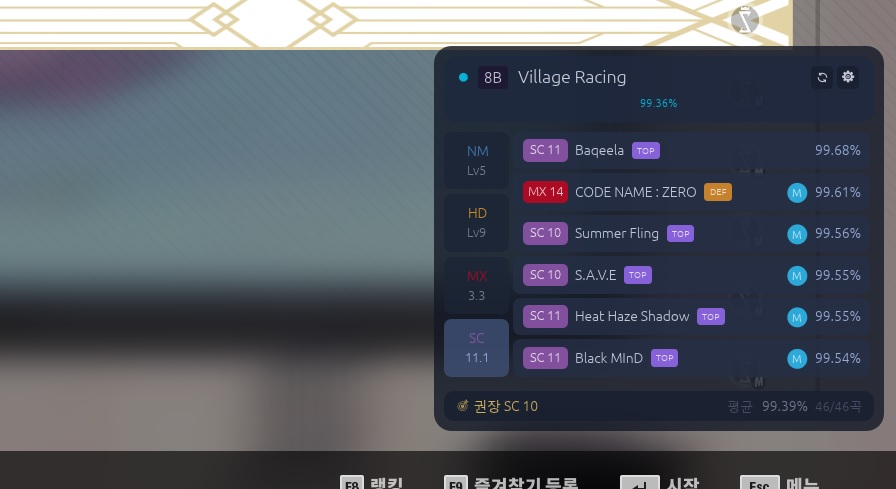
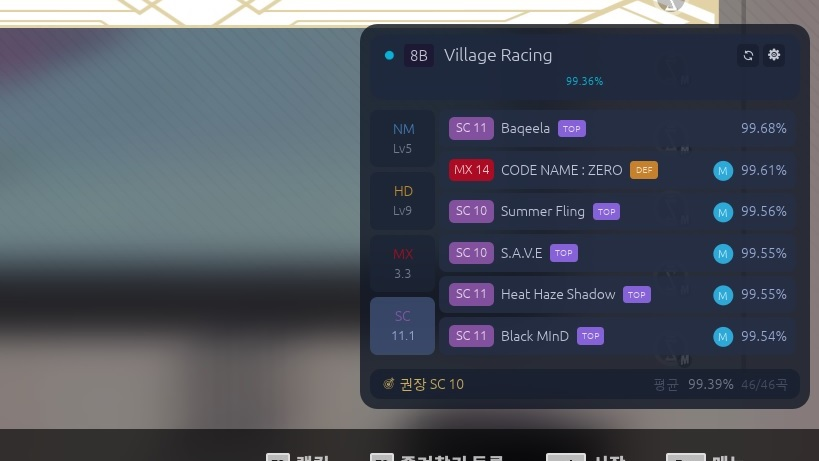
style: Align recommendation badge width (44px) and indent description text vertically

Changed region(s): [[0.0, 0.0, 1.0, 0.9414], [0.3053, 0.9718, 0.9158, 1.0]]

diff --git a/overmax/guide.html b/overmax/guide.html
@@ -133,18 +133,48 @@
       </p>
 
       <div style="background: var(--bg-card); border: 1px solid var(--border-subtle); border-radius: var(--radius-md); padding: 16px; margin: 14px 0 20px;">
-        <div style="font-weight: 700; color: var(--text); margin-bottom: 10px; font-size: 0.95rem;">
+        <div style="font-weight: 700; color: var(--text); margin-bottom: 12px; font-size: 0.95rem;">
           🏷 추천 사유 뱃지 안내
         </div>
-        <ul style="list-style: none; padding-left: 0; margin-bottom: 0; display: flex; flex-direction: column; gap: 8px; font-size: 0.9rem;">
-          <li><span class="badge-reco badge-reco-top">TOP</span> <strong>Top-50 돌파</strong>: V-Archive Top 50 랭킹 컷라인 돌파가 가능한 유력 후보곡 (레이팅 상승 극대화)</li>
-          <li><span class="badge-reco badge-reco-def">DEF</span> <strong>Top-50 수성</strong>: 현재 내 41~50위에 위치하여 밀려날 위기에 있는 방어 대상 곡</li>
-          <li><span class="badge-reco badge-reco-up">UP</span> <strong>상승 모멘텀</strong>: 오늘 세션의 컨디션(Performance Rating)이 좋아 도전해 볼 만한 상위 난이도 곡</li>
-          <li><span class="badge-reco badge-reco-rest">REST</span> <strong>회복/안정화</strong>: 컨디션이 저조하거나 손풀기가 필요할 때 감각 유지를 위한 안정권 곡</li>
-          <li><span class="badge-reco badge-reco-try">TRY</span> <strong>재도전</strong>: 목표 정확도에 근접했으나 아쉽게 놓치고 최근 14일간 플레이하지 않아 방치된 기록 갱신 유력 곡</li>
-          <li><span class="badge-reco badge-reco-clr">CLR</span> <strong>미플레이 첫 클리어</strong>: 아직 한 번도 기록이 등록되지 않은 신규 패턴</li>
+        <ul class="badge-reco-list">
+          <li class="badge-reco-item">
+            <span class="badge-reco badge-reco-top">TOP</span>
+            <div class="badge-reco-desc">
+              <strong>Top-50 돌파</strong>: V-Archive Top 50 랭킹 컷라인 돌파가 가능한 유력 후보곡 (레이팅 상승 극대화)
+            </div>
+          </li>
+          <li class="badge-reco-item">
+            <span class="badge-reco badge-reco-def">DEF</span>
+            <div class="badge-reco-desc">
+              <strong>Top-50 수성</strong>: 현재 내 41~50위에 위치하여 밀려날 위기에 있는 방어 대상 곡
+            </div>
+          </li>
+          <li class="badge-reco-item">
+            <span class="badge-reco badge-reco-up">UP</span>
+            <div class="badge-reco-desc">
+              <strong>상승 모멘텀</strong>: 오늘 세션의 컨디션(Performance Rating)이 좋아 도전해 볼 만한 상위 난이도 곡
+            </div>
+          </li>
+          <li class="badge-reco-item">
+            <span class="badge-reco badge-reco-rest">REST</span>
+            <div class="badge-reco-desc">
+              <strong>회복/안정화</strong>: 컨디션이 저조하거나 손풀기가 필요할 때 감각 유지를 위한 안정권 곡
+            </div>
+          </li>
+          <li class="badge-reco-item">
+            <span class="badge-reco badge-reco-try">TRY</span>
+            <div class="badge-reco-desc">
+              <strong>재도전</strong>: 목표 정확도에 근접했으나 아쉽게 놓치고 최근 14일간 플레이하지 않아 방치된 기록 갱신 유력 곡
+            </div>
+          </li>
+          <li class="badge-reco-item">
+            <span class="badge-reco badge-reco-clr">CLR</span>
+            <div class="badge-reco-desc">
+              <strong>미플레이 첫 클리어</strong>: 아직 한 번도 기록이 등록되지 않은 신규 패턴
+            </div>
+          </li>
         </ul>
-        <p style="font-size: 0.82rem; color: var(--text-muted); margin-top: 10px; margin-bottom: 0;">
+        <p style="font-size: 0.82rem; color: var(--text-muted); margin-top: 12px; margin-bottom: 0;">
           💡 인게임 오버레이에서 각 뱃지에 마우스를 올리면 상세한 추천 이유(호버 툴팁)를 확인할 수 있습니다.
         </p>
       </div>

diff --git a/styles.css b/styles.css
@@ -263,9 +263,9 @@ a {
   display: inline-flex;
   align-items: center;
   justify-content: center;
-  min-width: 32px;
-  height: 18px;
-  padding: 0 6px;
+  width: 44px;
+  min-width: 44px;
+  height: 20px;
   border-radius: 3px;
   font-family: var(--font-mono);
   font-size: 0.72rem;
@@ -274,6 +274,8 @@ a {
   border: none;
   line-height: 1;
   white-space: nowrap;
+  flex-shrink: 0;
+  margin-top: 1px;
 }
 
 .badge-reco-top  { background: #a06eff; } /* 보라 - Top-50 돌파 */
@@ -282,6 +284,27 @@ a {
 .badge-reco-rest { background: #28be82; } /* 에메랄드 - 회복/손풀기 */
 .badge-reco-try  { background: #ff5f5f; } /* 코랄레드 - 재도전 */
 .badge-reco-clr  { background: #1ec8a0; } /* 민트/청록 - 미플레이 첫 클리어 */
+
+.badge-reco-list {
+  list-style: none;
+  padding-left: 0;
+  margin-bottom: 0;
+  display: flex;
+  flex-direction: column;
+  gap: 10px;
+  font-size: 0.9rem;
+}
+
+.badge-reco-item {
+  display: flex;
+  align-items: flex-start;
+  gap: 12px;
+}
+
+.badge-reco-desc {
+  flex: 1;
+  line-height: 1.5;
+}
 
 .hero-actions {
   display: flex;
